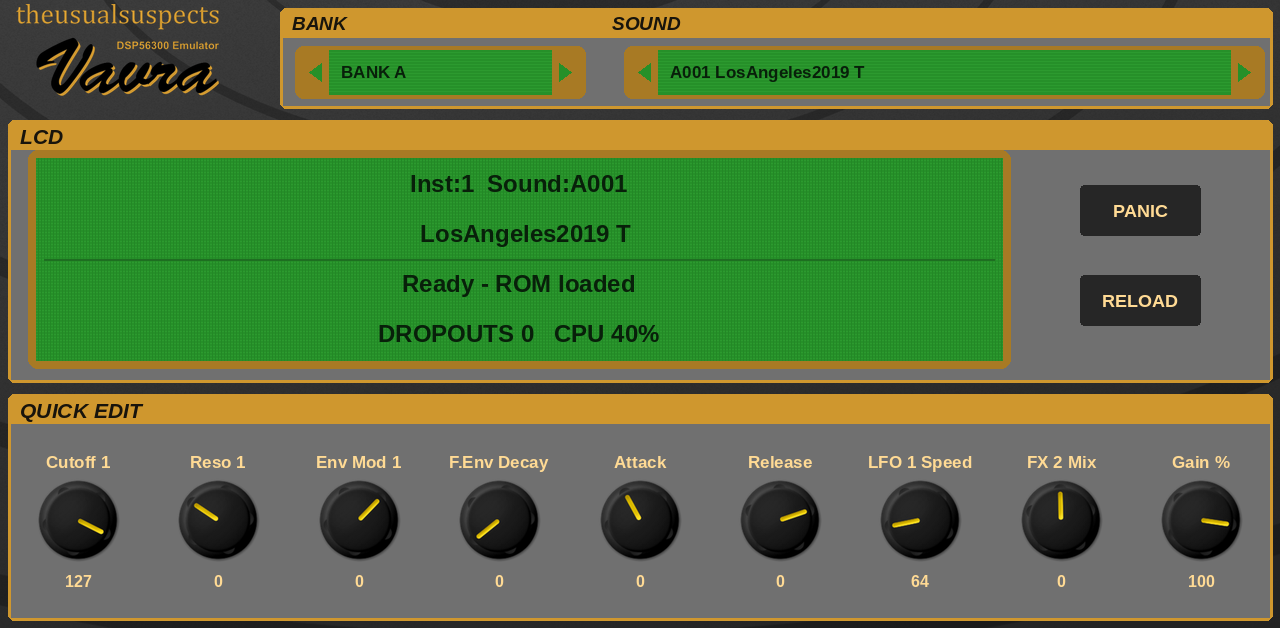
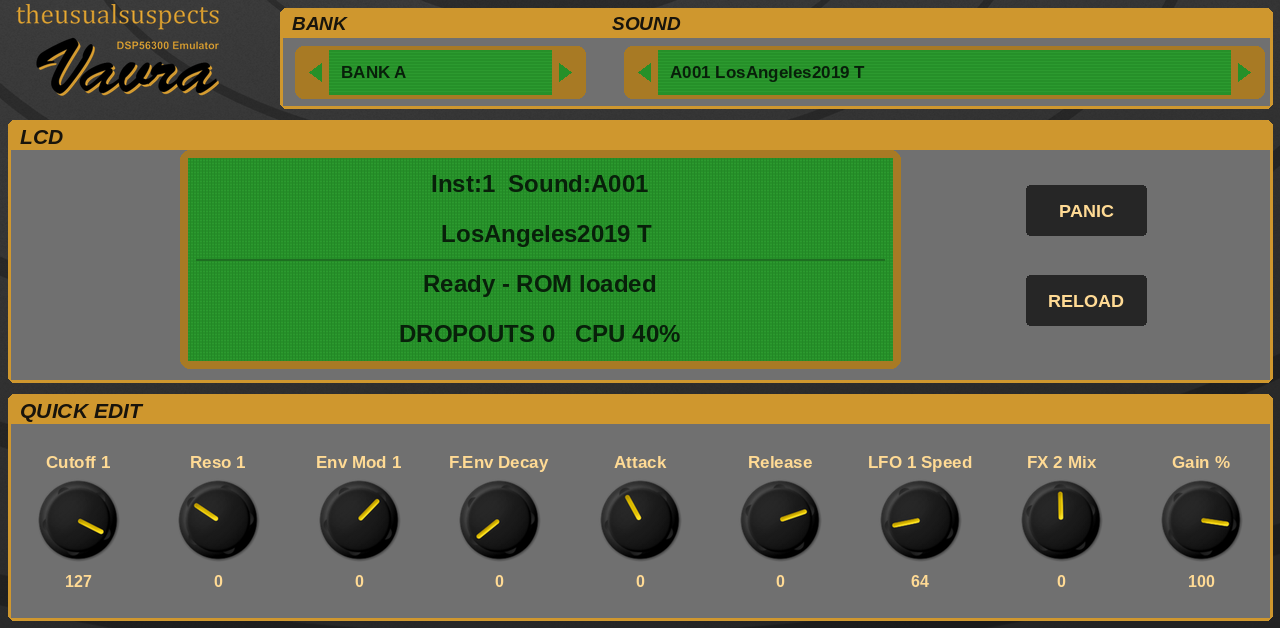
MAIN: narrower LCD
Claude-Session: https://claude.ai/code/session_01CpoP2q3VKQ5SkofMpVwNYz

diff --git a/tools/make_skin.py b/tools/make_skin.py
@@ -198,17 +198,17 @@ p = Page("MAIN", QUICK + ["gain"])
 header(p)
 p.panel(8, 120, 1264, 262, "LCD")
 # one 4-line display: the microQ's own two lines, then Vavra's status and stats, in a single bezel
-p.d.rounded_rectangle((28, 150, 1010, 368), 10, fill=GOLD_DARK)
-p.d.rectangle((36, 158, 1002, 360), fill=(38, 144, 41))
+p.d.rounded_rectangle((180, 150, 900, 368), 10, fill=GOLD_DARK)
+p.d.rectangle((188, 158, 892, 360), fill=(38, 144, 41))
 for yy in range(160, 360, 3):                       # the LCD's dot rows
-    p.d.line((36, yy, 1002, yy), fill=(44, 154, 47))
-for xx in range(38, 1002, 3):
+    p.d.line((188, yy, 892, yy), fill=(44, 154, 47))
+for xx in range(190, 892, 3):
     p.d.line((xx, 158, xx, 360), fill=(35, 136, 38))
-p.d.line((44, 259, 994, 259), fill=(30, 110, 33), width=2)     # the microQ's two lines above, Vavra's below
+p.d.line((196, 259, 884, 259), fill=(30, 110, 33), width=2)     # the microQ's two lines above, Vavra's below
 for i, k in enumerate(("lcd1", "lcd2", "loading_status", "engine_stats")):
-    p.widgets.append('readout cx=519 cy=%d w=950 h=40 label="" key=%s box=0 tsize=24 tcolor=08200a tweight=700' % (184 + i * 50 + Y86, k))
-p.button(1140, 210, "all_notes_off", "PANIC")
-p.button(1140, 300, "init_patch", "RELOAD")
+    p.widgets.append('readout cx=540 cy=%d w=690 h=40 label="" key=%s box=0 tsize=24 tcolor=08200a tweight=700' % (184 + i * 50 + Y86, k))
+p.button(1086, 210, "all_notes_off", "PANIC")
+p.button(1086, 300, "init_patch", "RELOAD")
 p.panel(8, 394, 1264, 226, "QUICK EDIT", solid=True)
 p.inv = FLAT is not None
 p.row(8, 1272, 520, [("F1Cutoff", "Cutoff 1"), ("F1Resonance", "Reso 1"), ("F1EnvMod", "Env Mod 1"), ("FilterEnvDecay", "F.Env Decay"),
